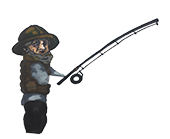
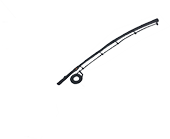
add some extra decoration

Changed region(s): [[0.0588, 0.1727, 0.3824, 0.9784]]

diff --git a/illustration_p5/illustration.js b/illustration_p5/illustration.js
@@ -1,4 +1,7 @@
 // illustration.js
+//text: He was an old man who fished alone in a skiff in the Gulf Stream
+//name of the book: the old man and the sea
+
 
 // list the illustration that i am going to use
 var backgroundImg;
@@ -14,6 +17,10 @@ var skyblockImg;
 var waterImg;
 var waveImg;
 var wheeImg;
+var oldmanLeanImg;
+var oldmanStandImg;
+var fish2Img;
+var fish3Img;
 
 //give a starting position for the cloud 1,2,3,4
 var cloud1X = -100;
@@ -26,8 +33,14 @@ var waveX = 300;
 var waterY = 190;
 var waterSpeedY = 0.5;
 //give a attribute to the ship
-var boatY = 230;
+var boatY = 235;
 var boatSpeedY = 0.2;
+//giave a starting position for the fish 2,3
+var fish2X = 800;
+var fish2Xspeed = -0.5;
+var fish3X = 0;
+var fish3Xspeed = 0.5;
+
 
 
 function preload() {
@@ -44,6 +57,10 @@ function preload() {
 	waterImg = loadImage("images/water.png");
 	waveImg = loadImage("images/wave.png");
 	wheelImg = loadImage("images/wheel.png");
+	oldmanLeanImg = loadImage("images/oldmanLean.png");
+	oldmanStandImg = loadImage("images/oldmanStand.png");
+	fish2Img = loadImage("images/fish2.png");
+	fish3Img = loadImage("images/fish3.png");
 }
 
 function setup() {
@@ -70,6 +87,11 @@ function draw() {
 	//animte the oldman
 	image(oldmanImg, 300, 209);
 
+	if (mouseIsPressed) {
+		image(oldmanLeanImg, 280, 225);
+	} else {
+		image(oldmanStandImg, 300, 220);
+	}
 	//place the hand of old man
 	// wind the fishing rod when clicked
 	if (mouseIsPressed) {
@@ -100,7 +122,7 @@ function draw() {
 	if (boatY > 255) {
 		boatSpeedY = -boatSpeedY;
 	}
-	if (boatY < 230) {
+	if (boatY < 235) {
 		boatSpeedY = -boatSpeedY;
 	}
 	image(boatImg, 50, boatY);
@@ -128,8 +150,16 @@ function draw() {
 	image(waveImg, waveX + 800, waterY + 130);
 
 	// animate the water
-	image(waterImg, 0, waterY + 40);
+	image(waterImg, 0, waterY + 30);
 
+
+	//draw fish
+	fish3X = fish3X + fish3Xspeed;
+	if (fish3X > 800) {
+		fish3X = 0;
+	}
+	image(fish3Img, fish3X, waterY + 200);
+	image(fish3Img, fish3X + 150, waterY + 230);
 	// animate the wave
 
 	image(waveImg, waveX, 365);
@@ -165,5 +195,14 @@ function draw() {
 	}
 	image(cloud4Img, cloud4X, 80);
 
+	//draw wheel that tell that the fish bited the rod
 	image(wheelImg, 450, random(225, 227));
+
+	//draw fish
+	fish2X = fish2X + fish2Xspeed;
+	if (fish2X < 0) {
+		fish2X = 800;
+	}
+	image(fish2Img, fish2X, waterY + 300);
+
 }
